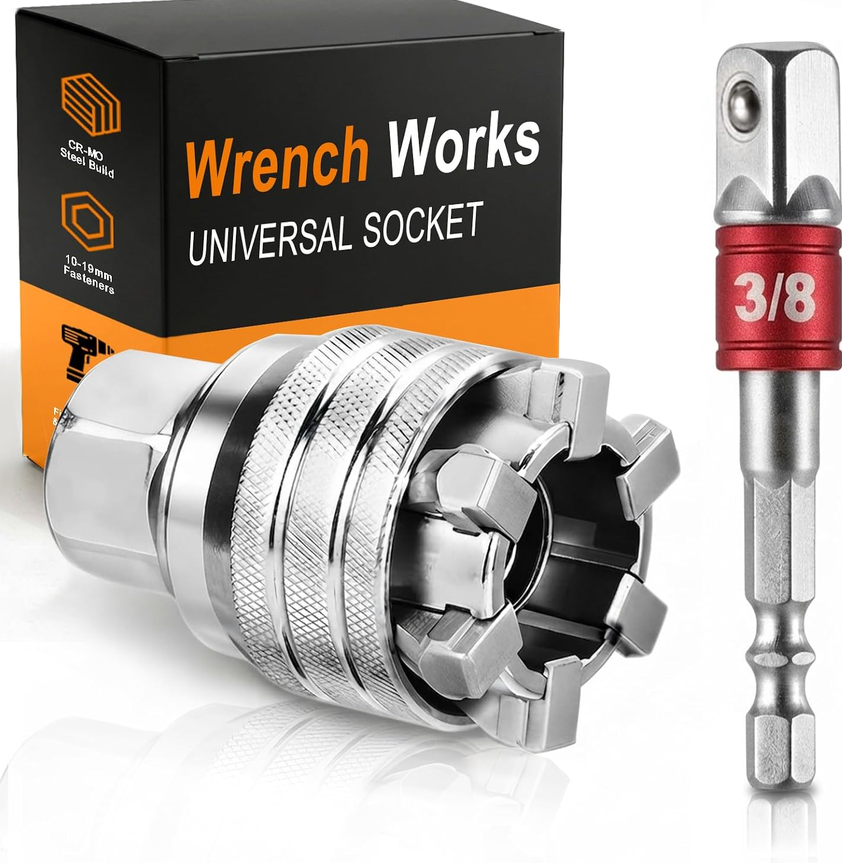
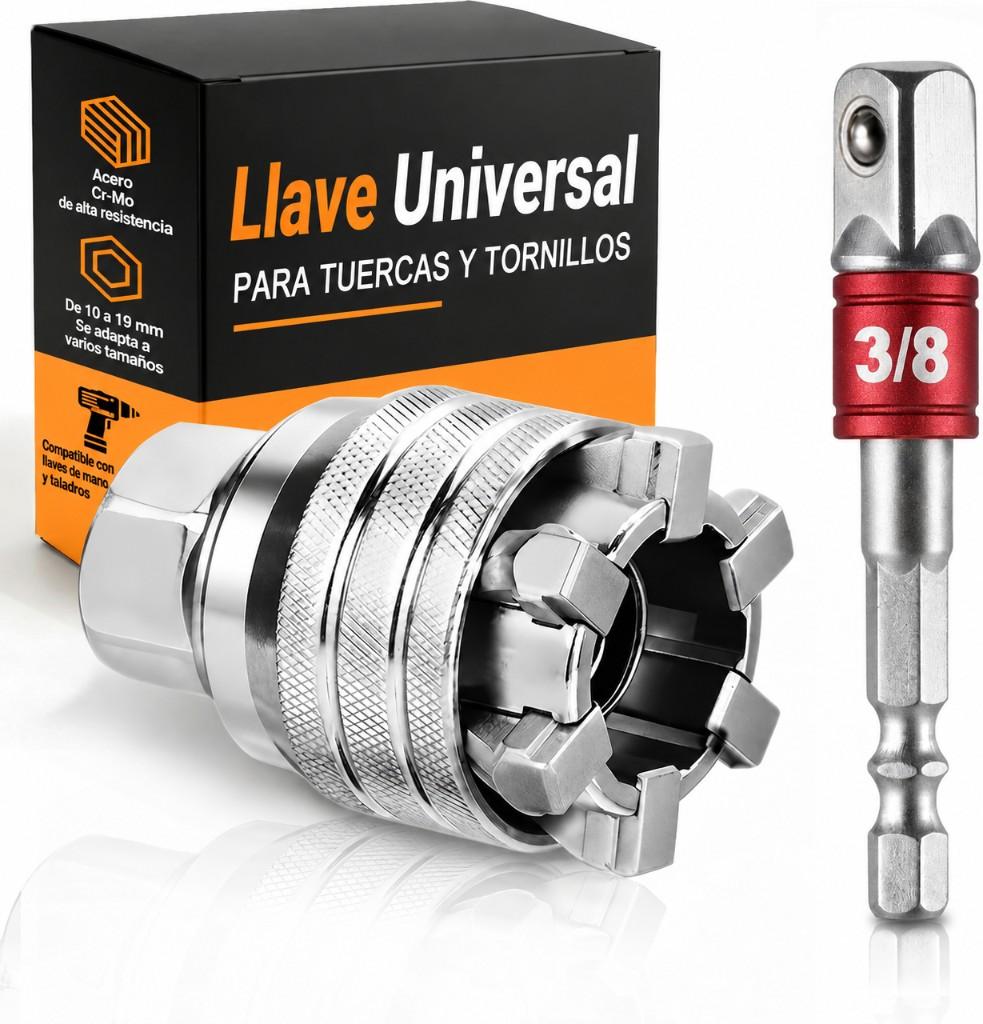
Add hero gallery and problem section photo to universal socket wrench page.

Changed region(s): [[0.0, 0.0, 0.8029, 0.9038], [0.8337, 0.0301, 1.0, 0.9641], [0.1235, 0.6628, 0.1544, 0.6929]]

diff --git a/universal-socket-wrench-panama.html b/universal-socket-wrench-panama.html
@@ -8,7 +8,7 @@
   <meta name="tiktok-pixel-id" content="DA46KJ3C77U8UMTFN63G">
   <link rel="preconnect" href="https://analytics.tiktok.com" crossorigin>
   <link rel="dns-prefetch" href="https://analytics.tiktok.com">
-  <link rel="preload" as="image" href="/images/universal-socket-wrench/hero-product.png?v=20260921a" fetchpriority="high">
+  <link rel="preload" as="image" href="/images/universal-socket-wrench/hero-product.png?v=20260921b" fetchpriority="high">
   <link rel="preload" as="style" href="/css/product.css?v=20260811a">
   <link rel="preload" as="style" href="/css/universal-socket-wrench.css?v=20260921a">
   <link rel="preconnect" href="https://fonts.googleapis.com">
@@ -95,10 +95,41 @@
     <section class="gallery" id="heroSection">
       <div class="gallery-stage" id="galleryTrack">
         <div class="slide">
-          <img class="is-contain" src="/images/universal-socket-wrench/hero-product.png?v=20260921a" alt="Llave universal multi-función con adaptador 3/8 y caja del producto" width="800" height="800" loading="eager" decoding="async" fetchpriority="high">
+          <img class="is-contain" src="/images/universal-socket-wrench/hero-product.png?v=20260921b" alt="Llave universal multi-función con adaptador 3/8 y caja del producto" width="800" height="800" loading="eager" decoding="async" fetchpriority="high">
+        </div>
+        <div class="slide">
+          <img class="is-contain" src="/images/universal-socket-wrench/hero-sizes.png?v=20260921b" alt="Se adapta a diferentes tamaños — tuercas de 10 a 19 mm" width="800" height="800" loading="lazy" decoding="async">
+        </div>
+        <div class="slide">
+          <img class="is-contain" src="/images/universal-socket-wrench/hero-quality.png?v=20260921b" alt="Control de alta calidad — adaptador, superficie antideslizante y cabeza ajustable" width="800" height="800" loading="lazy" decoding="async">
+        </div>
+        <div class="slide">
+          <img class="is-contain" src="/images/universal-socket-wrench/hero-uses.png?v=20260921b" alt="Una sola herramienta para auto, hogar y mantenimiento general" width="800" height="800" loading="lazy" decoding="async">
+        </div>
+        <div class="slide">
+          <img class="is-contain" src="/images/universal-socket-wrench/hero-comparison.png?v=20260921b" alt="Comparación — método tradicional vs kit universal compacto" width="800" height="800" loading="lazy" decoding="async">
+        </div>
+        <div class="slide">
+          <img class="is-contain" src="/images/universal-socket-wrench/hero-easy-use.png?v=20260921b" alt="Fácil de usar — ajusta, conecta y trabaja en 3 pasos" width="800" height="800" loading="lazy" decoding="async">
+        </div>
+        <div class="slide">
+          <img class="is-contain" src="/images/universal-socket-wrench/hero-portable.png?v=20260921b" alt="Diseño compacto y portátil — fácil de guardar y llevar" width="800" height="800" loading="lazy" decoding="async">
+        </div>
+        <div class="slide">
+          <img class="is-contain" src="/images/universal-socket-wrench/hero-dimensions.png?v=20260921b" alt="Tamaño del producto — dimensiones de la llave y adaptador 3/8" width="800" height="800" loading="lazy" decoding="async">
         </div>
       </div>
       <div class="gallery-dots" id="galleryDots" aria-hidden="true"></div>
+      <div class="gallery-thumbs">
+        <button type="button" class="thumb is-active" aria-label="Producto"><img src="/images/universal-socket-wrench/hero-product.png?v=20260921b" alt="" width="160" height="160" decoding="async"></button>
+        <button type="button" class="thumb" aria-label="Tamaños 10-19 mm"><img src="/images/universal-socket-wrench/hero-sizes.png?v=20260921b" alt="" width="160" height="160" loading="lazy" decoding="async"></button>
+        <button type="button" class="thumb" aria-label="Alta calidad"><img src="/images/universal-socket-wrench/hero-quality.png?v=20260921b" alt="" width="160" height="160" loading="lazy" decoding="async"></button>
+        <button type="button" class="thumb" aria-label="Usos"><img src="/images/universal-socket-wrench/hero-uses.png?v=20260921b" alt="" width="160" height="160" loading="lazy" decoding="async"></button>
+        <button type="button" class="thumb" aria-label="Comparación"><img src="/images/universal-socket-wrench/hero-comparison.png?v=20260921b" alt="" width="160" height="160" loading="lazy" decoding="async"></button>
+        <button type="button" class="thumb" aria-label="Fácil de usar"><img src="/images/universal-socket-wrench/hero-easy-use.png?v=20260921b" alt="" width="160" height="160" loading="lazy" decoding="async"></button>
+        <button type="button" class="thumb" aria-label="Portátil"><img src="/images/universal-socket-wrench/hero-portable.png?v=20260921b" alt="" width="160" height="160" loading="lazy" decoding="async"></button>
+        <button type="button" class="thumb" aria-label="Dimensiones"><img src="/images/universal-socket-wrench/hero-dimensions.png?v=20260921b" alt="" width="160" height="160" loading="lazy" decoding="async"></button>
+      </div>
     </section>
 
     <section class="product-info">
@@ -171,7 +202,7 @@
   <section class="feature story-step">
     <div class="feature-inner">
       <div class="feature-media feature-media--square">
-        <img src="/images/universal-socket-wrench/hero-product.png?v=20260921a" alt="Buscando el dado correcto entre muchas herramientas" width="800" height="800" loading="lazy" decoding="async">
+        <img src="/images/universal-socket-wrench/story-problem.png?v=20260921c" alt="Frustración al buscar el dado correcto — caja desordenada, tuercas oxidadas y espacios estrechos" width="800" height="800" loading="lazy" decoding="async">
       </div>
       <div class="feature-copy">
         <h2>¿Cuántas veces te ha pasado esto?</h2>
@@ -515,6 +546,41 @@
 <script src="/js/main.js?v=20260918b" defer></script>
 <script>
 document.addEventListener('DOMContentLoaded', function () {
+  var track = document.getElementById('galleryTrack');
+  var dots = document.getElementById('galleryDots');
+  var thumbs = Array.prototype.slice.call(document.querySelectorAll('.thumb'));
+
+  if (track && dots) {
+    var slides = Array.prototype.slice.call(track.querySelectorAll('.slide'));
+    var current = -1;
+
+    slides.forEach(function () { dots.appendChild(document.createElement('span')); });
+
+    function setActive(index) {
+      if (index === current || index < 0 || index >= slides.length) return;
+      current = index;
+      thumbs.forEach(function (t, i) { t.classList.toggle('is-active', i === index); });
+      Array.prototype.forEach.call(dots.children, function (d, i) { d.classList.toggle('is-active', i === index); });
+    }
+
+    thumbs.forEach(function (thumb, i) {
+      thumb.addEventListener('click', function () {
+        track.scrollTo({ left: track.clientWidth * i, behavior: 'smooth' });
+        setActive(i);
+      });
+    });
+
+    var scrollTimer;
+    track.addEventListener('scroll', function () {
+      clearTimeout(scrollTimer);
+      scrollTimer = setTimeout(function () {
+        setActive(Math.round(track.scrollLeft / track.clientWidth));
+      }, 60);
+    }, { passive: true });
+
+    setActive(0);
+  }
+
   var priceNow = document.getElementById('priceNow');
   var priceWas = document.getElementById('priceWas');
   var stickyPrice = document.getElementById('stickyPrice');
